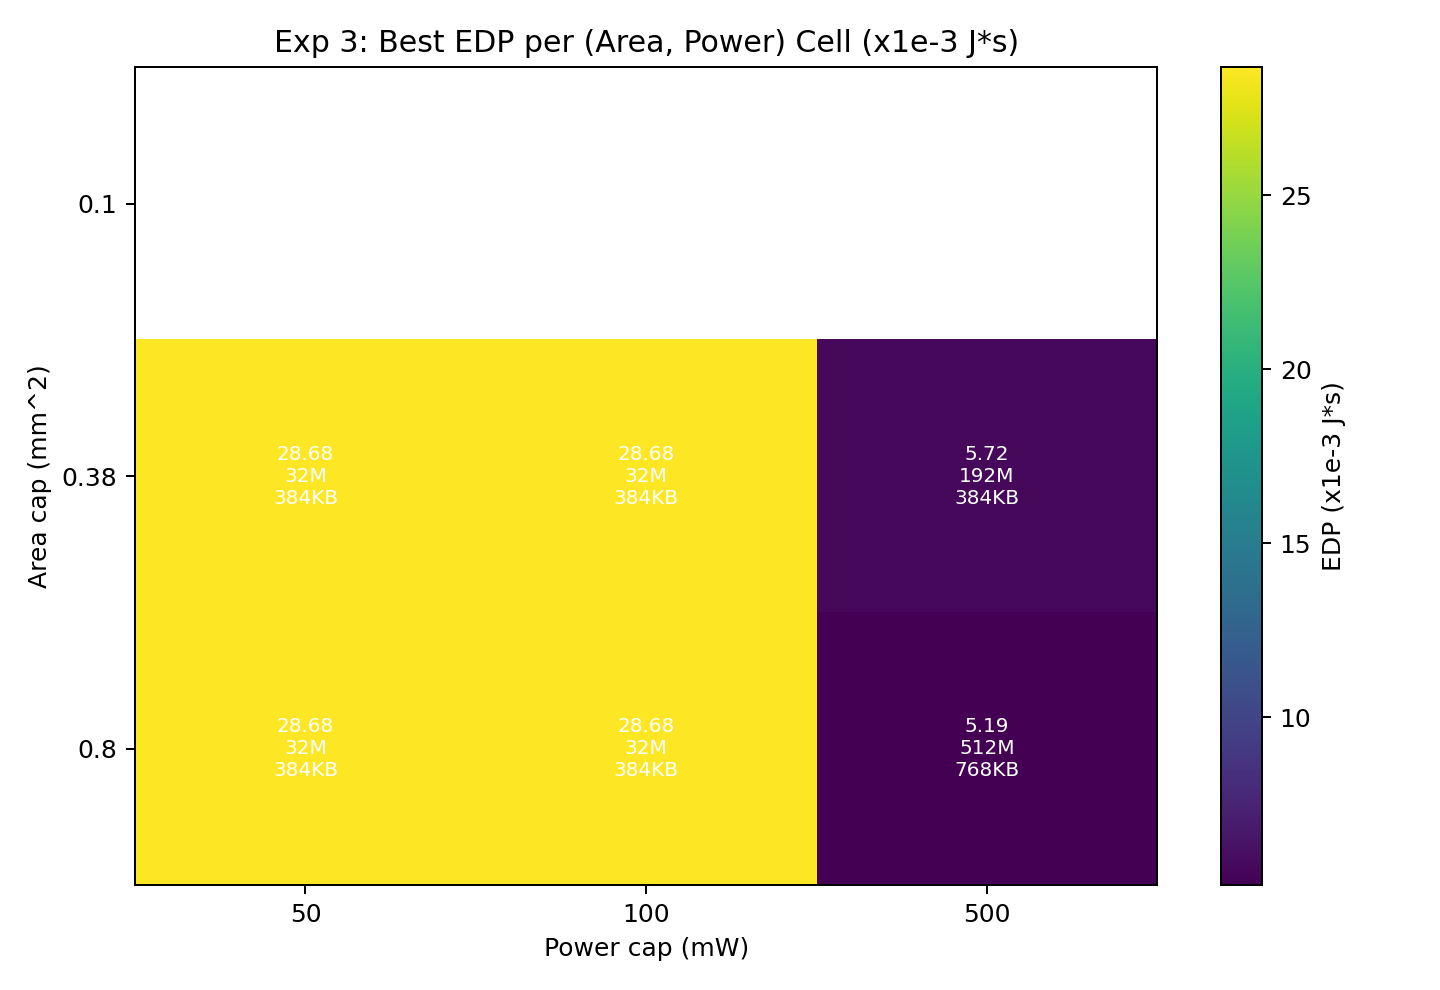
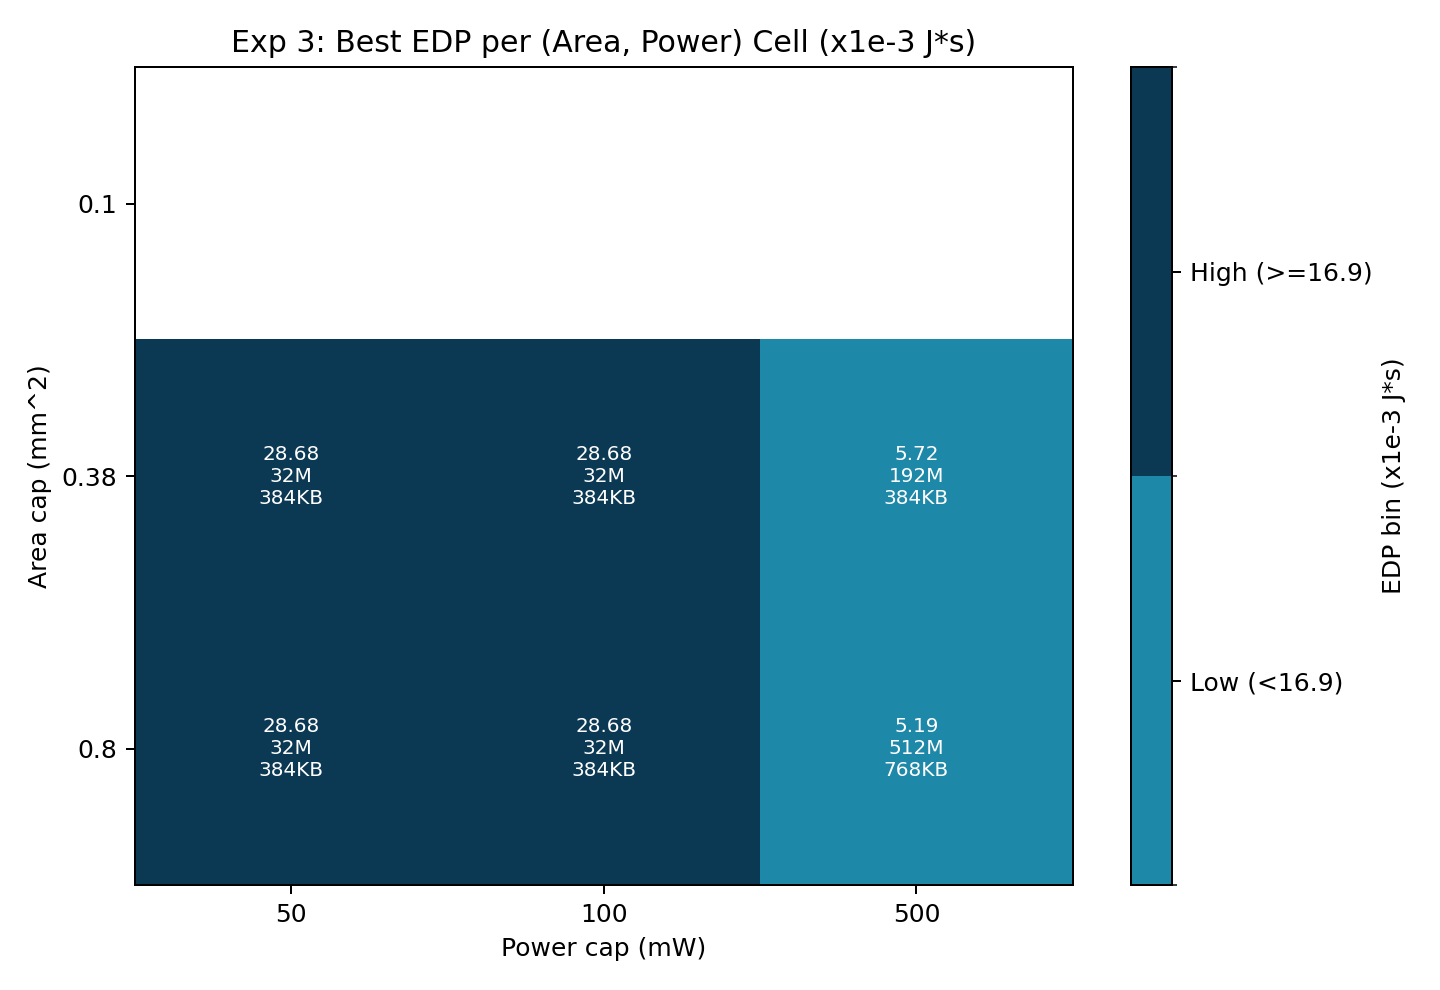
exp 1 sku vs. open plots

diff --git a/milestone_2/plot_final_results.py b/milestone_2/plot_final_results.py
@@ -125,6 +125,51 @@ def plot_exp1(exp1_path: Path, out_dir: Path) -> None:
     fig.savefig(out_dir / "exp1_per_layer_top5.png", dpi=180)
     plt.close(fig)
 
+    # Figure 4: SKU vs lifted (non-SKU) best EDP per MAC count
+    sku_best: dict[int, dict] = {}
+    non_best: dict[int, dict] = {}
+    for c in cfgs:
+        bucket = sku_best if "SKU" in c["label"] else non_best
+        m = c["num_macs"]
+        prev = bucket.get(m)
+        if prev is None or c["total_edp"] < prev["total_edp"]:
+            bucket[m] = c
+
+    macs_all = sorted(set(sku_best) | set(non_best))
+    x = np.arange(len(macs_all))
+    w = 0.4
+    sku_vals = [sku_best[m]["total_edp"] * 1e3 if m in sku_best else np.nan for m in macs_all]
+    non_vals = [non_best[m]["total_edp"] * 1e3 if m in non_best else np.nan for m in macs_all]
+
+    fig, ax = plt.subplots(figsize=(10, 6))
+    ax.bar(x - w / 2, sku_vals, width=w, color=OCEAN[0], label="SKU-constrained")
+    ax.bar(x + w / 2, non_vals, width=w, color=OCEAN[3], label="Lifted (non-SKU)")
+    for i, m in enumerate(macs_all):
+        if m not in sku_best:
+            ax.text(i - w / 2, 4.05, "no SKU", ha="center", va="bottom",
+                    fontsize=8, color="gray", rotation=90)
+        if m in non_best:
+            c = non_best[m]
+            preset = _short(c["system_preset"])
+            ax.text(i + w / 2, non_vals[i] + 0.02,
+                    f"{c['sram_kb']}KB / {c['scratch_kb']}KB / {preset}",
+                    ha="center", va="bottom", fontsize=7, color=OCEAN[0], rotation=0)
+
+    best_overall = min(min(sku_best.values()), min(non_best.values()))
+    ax.axhline(best_overall, linestyle="--", color=OCEAN[0], linewidth=1.2,
+               label=f"Best overall = {best_overall:.2f} x1e-3 J*s")
+
+    ax.set_xticks(x)
+    ax.set_xticklabels([f"{m} MACs" for m in macs_all])
+    ax.set_ylabel("Best total EDP (x1e-3 J*s)")
+    ax.set_ylim(bottom=4.0)
+    ax.set_title("Exp 1: SKU-Constrained vs Lifted Design Space (lower is better)")
+    ax.grid(axis="y", alpha=0.3)
+    ax.legend(loc="upper right")
+    fig.tight_layout()
+    fig.savefig(out_dir / "exp1_sku_vs_lifted.png", dpi=180)
+    plt.close(fig)
+
 
 def plot_exp2(exp2_path: Path, out_dir: Path) -> None:
     d = json.loads(exp2_path.read_text())["by_hw"]
@@ -206,9 +251,16 @@ def plot_exp3(exp3_path: Path, out_dir: Path) -> None:
             M[i, j] = b["total_edp"] * 1e3
             labels[i][j] = f"{b['num_macs']}M\n{b['sram_kb']}KB"
 
-    # Figure 1: heatmap
+    # Figure 1: heatmap binned into low/high EDP
+    from matplotlib.colors import BoundaryNorm, ListedColormap
+
+    finite = M[np.isfinite(M)]
+    threshold = (finite.min() + finite.max()) / 2
+    cmap = ListedColormap([OCEAN[2], OCEAN[0]])  # teal (low), deep navy (high)
+    norm = BoundaryNorm([finite.min(), threshold, finite.max()], cmap.N)
+
     fig, ax = plt.subplots(figsize=(8, 5.5))
-    im = ax.imshow(M, aspect="auto")
+    im = ax.imshow(M, aspect="auto", cmap=cmap, norm=norm)
     ax.set_xticks(range(len(powers)))
     ax.set_xticklabels([str(p) for p in powers])
     ax.set_yticks(range(len(areas)))
@@ -222,8 +274,15 @@ def plot_exp3(exp3_path: Path, out_dir: Path) -> None:
                 ax.text(j, i, f"{M[i, j]:.2f}\n{labels[i][j]}", ha="center", va="center", fontsize=8, color="white")
             else:
                 ax.text(j, i, "N/A", ha="center", va="center", fontsize=8, color="white")
-    cbar = fig.colorbar(im, ax=ax)
-    cbar.set_label("EDP (x1e-3 J*s)")
+    cbar = fig.colorbar(im, ax=ax, ticks=[
+        (finite.min() + threshold) / 2,
+        (threshold + finite.max()) / 2,
+    ])
+    cbar.ax.set_yticklabels([
+        f"Low (<{threshold:.1f})",
+        f"High (>={threshold:.1f})",
+    ])
+    cbar.set_label("EDP bin (x1e-3 J*s)")
     fig.tight_layout()
     fig.savefig(out_dir / "exp3_budget_grid_heatmap.png", dpi=180)
     plt.close(fig)
